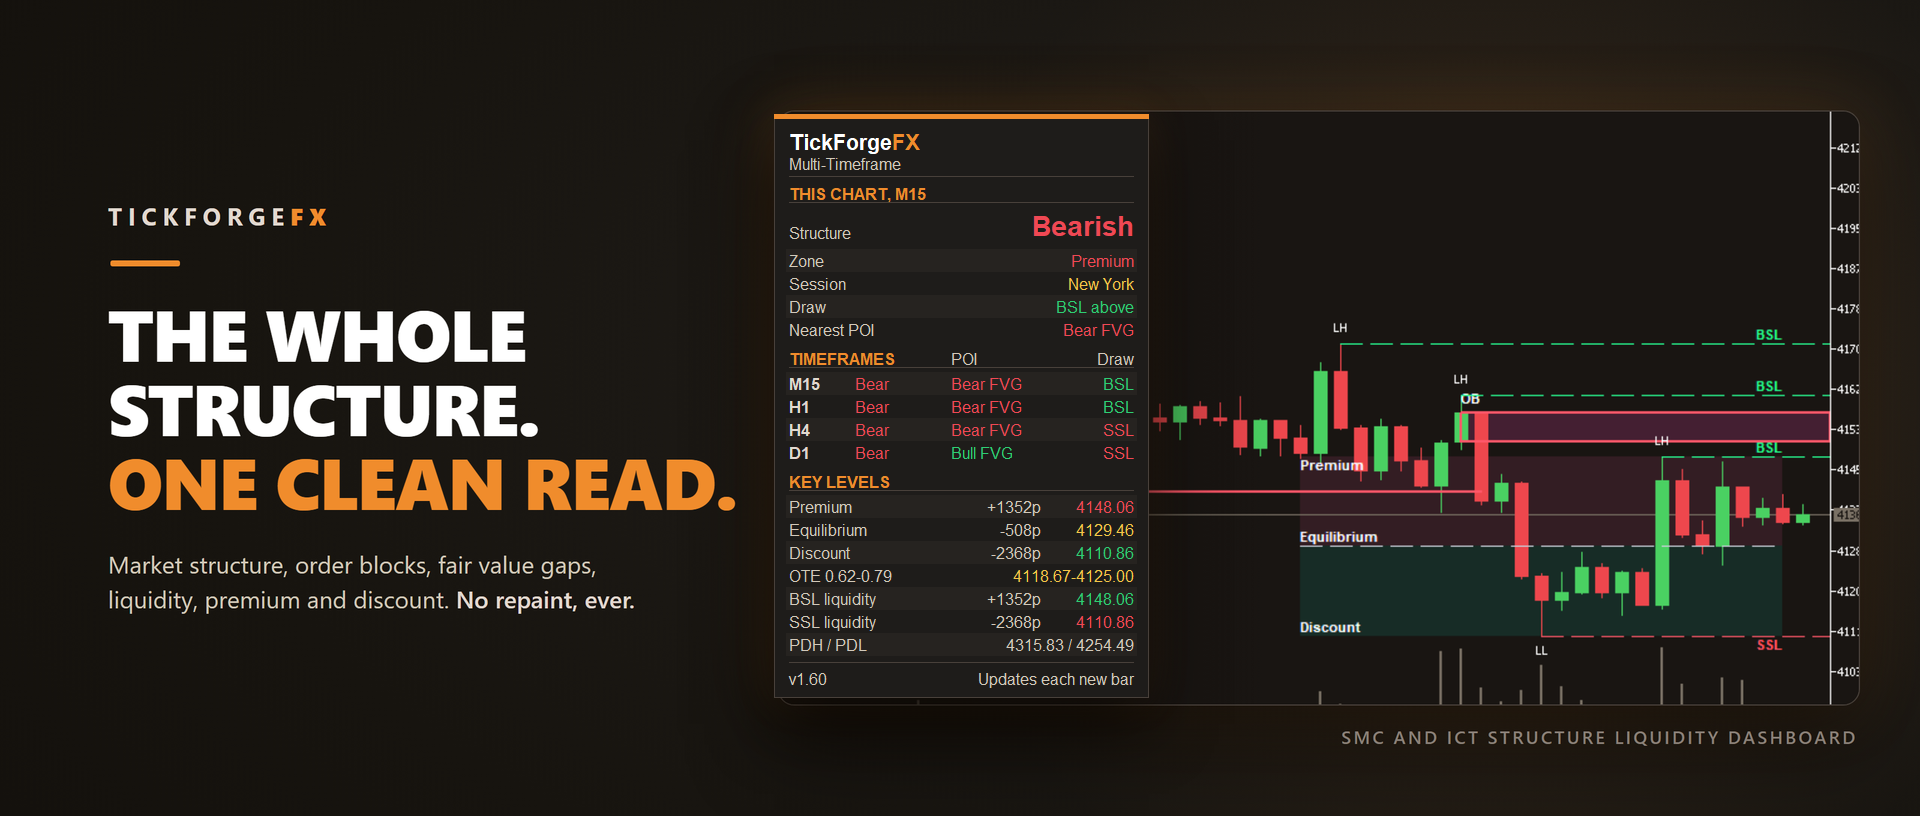
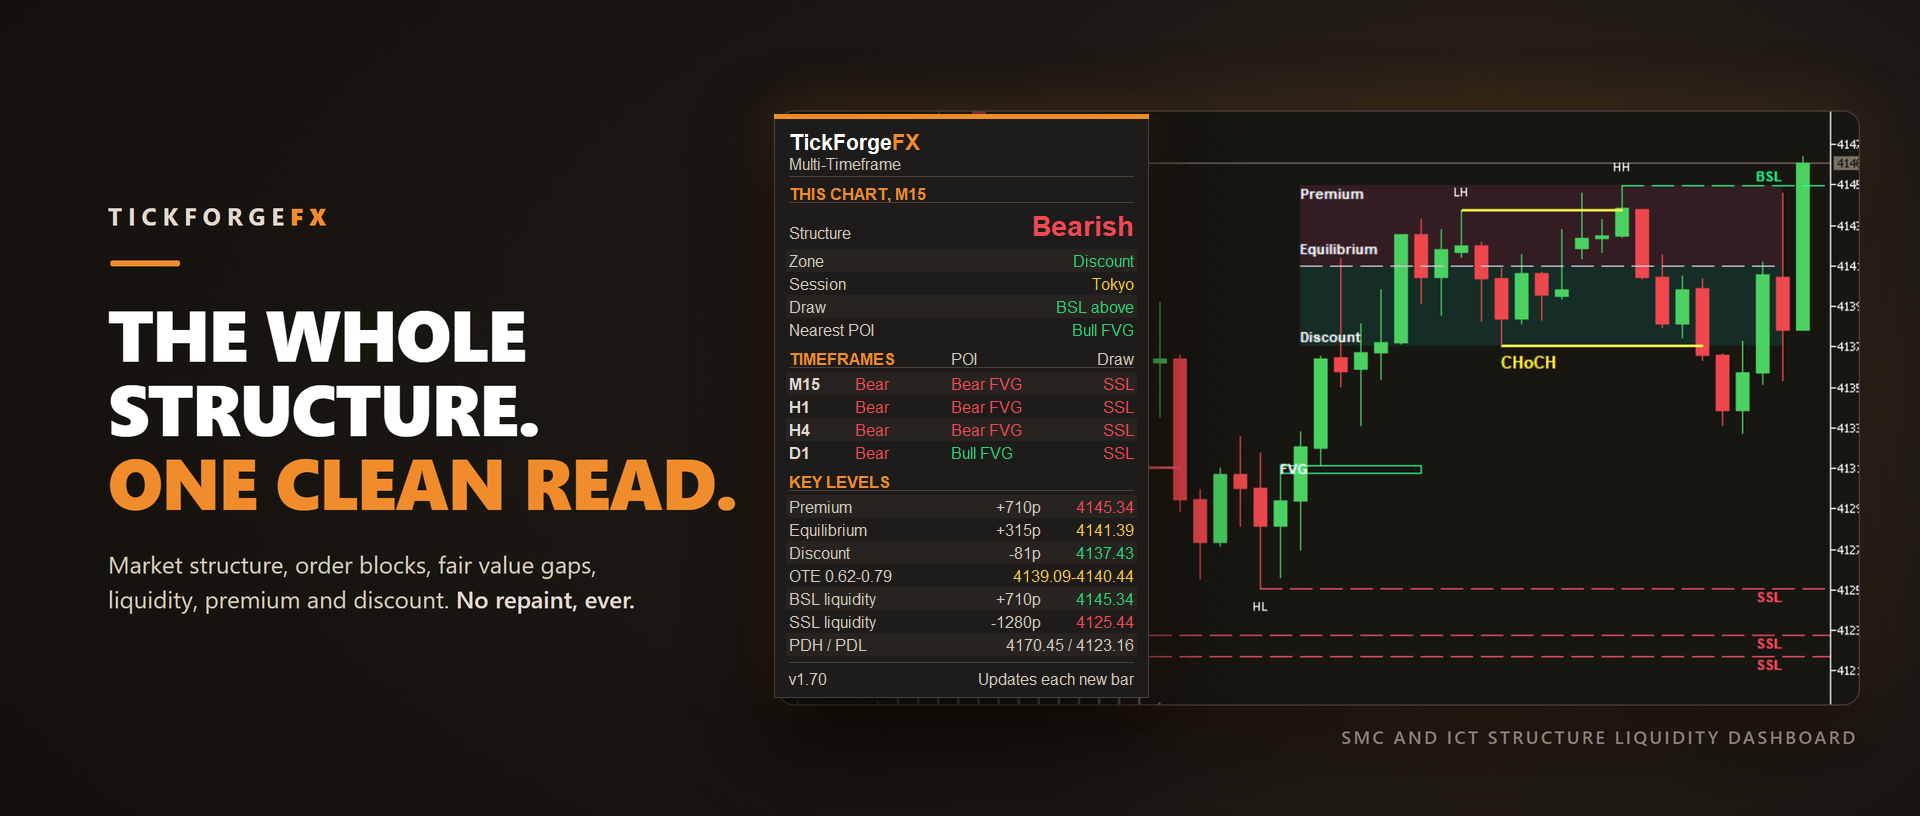
SMC and ICT Structure Liquidity Dashboard v1.70, live: the labels sentence the listing gained, the version, and the v1.70 hero and chart capture

diff --git a/products/smart-money-concepts/PRODUCT_PAGE.md b/products/smart-money-concepts/PRODUCT_PAGE.md
@@ -53,7 +53,9 @@ still forming. A bar close changes the chart only by fixed rules: a level is swe
 mitigated, extends to the right or takes in an overlapping gap, an older zone makes way for a
 newer one, and the premium and discount bracket moves with the newest bars. At the far left edge
 of the scan (the most recent 1,500 bars by default), older structure is re-read as the window
-moves on.
+moves on. Labels are laid out again at each bar close and whenever you zoom, scroll or resize the
+chart: a label can move a little, two liquidity labels on one level share one, and a label with no
+room hides until there is room. This changes where a label sits, not what it marks.
 
 ## Make it yours
 
@@ -125,6 +127,6 @@ suite before release.
 
 ---
 
-Current version: **1.60**
+Current version: **1.70**
 
 On the MQL5 Market: [SMC and ICT Structure Liquidity Dashboard](https://www.mql5.com/en/market/product/182687)
